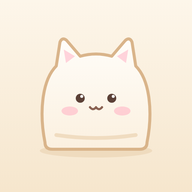
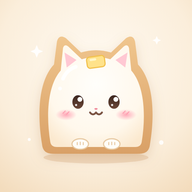
奶油吐司猫图标精修：烤面包边、小黄油、亮晶晶眼睛、小爪子
Claude-Session: https://claude.ai/code/session_01Kju9AuUhCjB8j9UKvKX9Kv

diff --git a/index.html b/index.html
@@ -98,8 +98,8 @@
       if (ok) navigator.serviceWorker.register("./sw.js", { scope: "./", updateViaCache: "none" }).catch(function () {});
     })();
   </script>
-  <link rel="icon" href="icons/icon-192.png?v=5" type="image/png" sizes="192x192">
-  <link rel="apple-touch-icon" href="icons/apple-touch-icon.png?v=5">
+  <link rel="icon" href="icons/icon-192.png?v=6" type="image/png" sizes="192x192">
+  <link rel="apple-touch-icon" href="icons/apple-touch-icon.png?v=6">
   <title>Meow</title>
   <!-- 首帧与浅色开屏同色，避免 style.css 加载前闪色 -->
   <style>

diff --git a/sw.js b/sw.js
@@ -1,4 +1,4 @@
-const CACHE_NAME = "xxj-pwa-v295";
+const CACHE_NAME = "xxj-pwa-v296";
 const KEEPALIVE_PERIODIC_TAG = "xxj-keepalive";
 const SCHEDULE_IDB = "xxj_sw_schedule";
 const SCHEDULE_STORE = "due";
